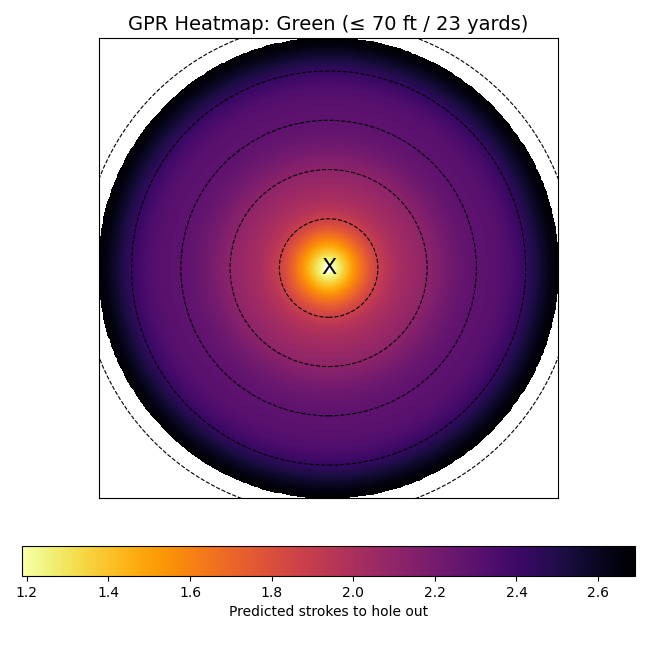
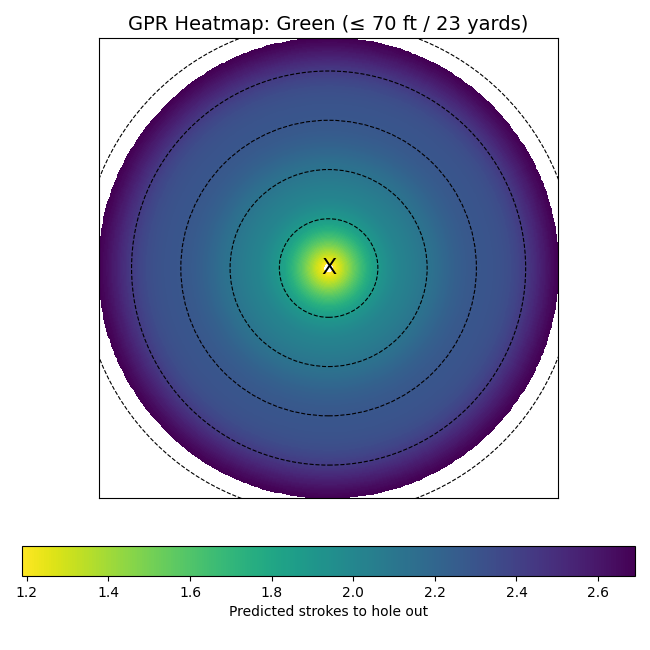
more graphs

diff --git a/greencode/allfourpolarheat.py b/greencode/allfourpolarheat.py
@@ -1,0 +1,66 @@
+import numpy as np
+import pandas as pd
+import matplotlib.pyplot as plt
+import matplotlib.gridspec as gridspec
+
+# Lie types and display labels (including green!)
+lies = {
+    "fairway": "Fairway",
+    "rough": "Rough",
+    "sand": "Sand",
+    "green": "Green (≤ 70 ft)"
+}
+
+# Load data and determine shared scales
+r_max, z_min, z_max = 0, float('inf'), float('-inf')
+r_dict = {}
+
+for lie in lies:
+    df = pd.read_csv(f"results/gpr_{lie}_preds.csv")
+    
+    if lie == "green":
+        df = df[df["holedis"] <= 70/3]
+
+    r_vals = df["holedis"].values
+    z_vals = df["pred"].values
+    r_dict[lie] = (r_vals, z_vals)
+    r_max = max(r_max, r_vals.max())
+    z_min = min(z_min, z_vals.min())
+    z_max = max(z_max, z_vals.max())
+
+# --------- Set up 2x2 layout ---------
+fig = plt.figure(figsize=(13, 11))
+gs = gridspec.GridSpec(3, 2, height_ratios=[6, 6, 1])  # 3rd row for colorbar
+axes = [fig.add_subplot(gs[i // 2, i % 2], aspect='equal') for i in range(4)]
+
+# Plot each lie
+for ax, (lie, title) in zip(axes, lies.items()):
+    r_vals, z_vals = r_dict[lie]
+    theta = np.linspace(0, 2 * np.pi, 360)
+    R, T = np.meshgrid(r_vals, theta)
+    Z = np.tile(z_vals, (len(theta), 1))
+    X = R * np.cos(T)
+    Y = R * np.sin(T)
+
+    mesh = ax.pcolormesh(X, Y, Z, shading='auto', cmap='inferno_r', vmin=z_min, vmax=z_max)
+
+    for rad in range(5, int(r_max) + 5, 5):
+        circle = plt.Circle((0, 0), radius=rad, color='black', fill=False, linewidth=0.8, linestyle='--')
+        ax.add_patch(circle)
+
+    ax.text(0, 0, "X", fontsize=16, ha='center', va='center')
+    ax.set_title(title)
+    ax.set_xticks([])
+    ax.set_yticks([])
+    ax.set_xlim(-r_max, r_max)
+    ax.set_ylim(-r_max, r_max)
+
+# Shared colorbar
+cbar_ax = fig.add_subplot(gs[2, :])
+cbar = fig.colorbar(mesh, cax=cbar_ax, orientation='horizontal')
+cbar.set_label("Predicted strokes to hole out")
+
+fig.suptitle("GPR Heatmaps by Lie Type", fontsize=16, y=0.94)
+plt.tight_layout(rect=[0, 0, 1, 0.96])
+plt.savefig("results/gpr_polar_faceted_with_green.png")
+plt.show()

diff --git a/greencode/polarheatmap.py b/greencode/polarheatmap.py
@@ -21,7 +21,7 @@ Y = R * np.sin(T)
 
 # Set up plot
 fig, ax = plt.subplots(figsize=(6.5, 6.5), subplot_kw={'aspect': 'equal'})
-mesh = ax.pcolormesh(X, Y, Z, shading='auto', cmap='inferno_r')
+mesh = ax.pcolormesh(X, Y, Z, shading='auto', cmap='viridis_r')
 
 # Guide circles every 5 yards
 r_max = r_vals.max()
